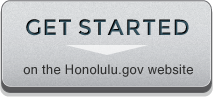
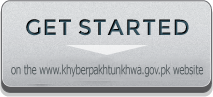
Seeds Recreated according to content Style Guide

Changed region(s): [[0.0282, 0.6495, 0.9577, 0.8041], [0.169, 0.866, 0.1972, 0.8969]]

diff --git a/db/seeds.rb b/db/seeds.rb
@@ -7,13 +7,13 @@ Category.create([
   { :name => "City jobs", :description => "Everything to do with city jobs" },
   { :name => "Driver License", :description => "Driving licenses, transport and registration concerns." },
   { :name => "Public Services", :description => "Information for people wanting to work for the city" },
-  { :name => "Parks & Beaches", :description => "Parks, beaches and other green spaces" },
+  { :name => "Parks & Hotels", :description => "Parks, hotels and other green spaces" },
   { :name => "Emergencies", :description => "What to do in an emergency" }
 ])
 
 # The order is important, as it determines the IDs.
 Contact.create([
-  { :name => "Example contact", :url => "http://honolulu.gov", :department => "Department of Administrative Affairs", :number => "(808) 768-3798" }
+  { :name => "Web Cell KpK", :url => "http://khyberpakhtunkhwa.gov.pk", :department => "Department of Administrative Affairs", :number => "(091) 9211789" }
 ])
 
 Department.create([
@@ -32,20 +32,51 @@ puts "  email: admin@example.com"
 puts "  password: adminn"
 
 Article.create([
-  { :title => "What is the selection process for a job at the City?", :contact_id => 1, :tags => "job selection, apply for job, city employment, city job, application", :service_url => "", :category_id => 1, :author_pic_file_name => nil, :author_pic_content_type => nil, :author_pic_file_size => nil, :author_pic_updated_at => nil, :author_name => "", :author_link => "", :type => "QuickAnswer", :content_main => "**Selection process for a City job:**\r\n\r\n1.  Apply for a job at [honolulu.gov/hr][1].\r\n2.  Submit any requested documentation listed on the job posting. For example: \r\n    *   Certificate of Release or Discharge from Military Service (Form DD214).\r\n    *   Copies of your college diploma and official transcripts with the embossed seal.\r\n    *   Copies of your professional licenses (e.g., Professional Engineering license).\r\n3.  Check your mail and email for any notices regarding your application.\r\n4.  If you meet the requirements, you may be asked to take written or other tests.\r\n5.  If you qualify, you may be invited for an interview.\r\n6.  Finally, you will need to clear some medical examinations.\r\n\r\n\r\n\r\n [1]: http://www.honolulu.gov/hr", :content_main_extra => "", :content_need_to_know => "All documentation, other than the application form, should be mailed or hand-delivered to:  \r\n\r\n> 650 South King Street, 10th Floor  \r\n> Honolulu, HI 96813\r\n\r\nYou can expect notices regarding your application 6-8 weeks after the end of the application period.", :published => true, :user_id => 1 },
-  { :title => "How long is the grace period for registration of an out-of-state vehicle?", :preview => "The grace period is 10 working days.", :contact_id => 1, :tags => "registration, time period, car, register, vehicle, out of state, leeway, buffer period, buffer time, tag, sticker, license plate sticker, plate tag, dmv", :service_url => "", :category_id => 2, :author_pic_file_name => nil, :author_pic_content_type => nil, :author_pic_file_size => nil, :author_pic_updated_at => nil, :author_name => "", :author_link => "", :type => "QuickAnswer",   :content_main => "## The grace period is 10 working days.\r\n\r\n", :content_main_extra => "", :content_need_to_know => "A working day is a day that the city offices are open.", :published => true, :user_id => 1 },
-  { :title => "Can I trim or remove my street tree?", :preview => "You aren’t allowed to trim, remove, or plant a street tree without approval from the City.", :contact_id => 1, :tags => "Trees, street trees, trim, prune, remove, relocate, replace, Planning and Permitting, Parks and Recreation, horticulture, Urban Forestry", :service_url => nil, :category_id => 3, :author_pic_file_name => nil, :author_pic_content_type => nil, :author_pic_file_size => nil, :author_pic_updated_at => nil, :author_name => "", :author_link => "", :type => "QuickAnswer",   :content_main => "**No. This is the responsibility of the City.**", :content_main_extra => "", :content_need_to_know => "**Don't touch that street tree**\r\n\r\n - Street trees are the property of the City. You cannot plant, remove, relocate, or replace a street tree without approval from the City.\r\n - Information about street trees is available at http://www1.honolulu.gov/parks/guidelinesfortreeinquiries072011.pdf.\r\n\r\n\r\n**Here’s what to do if you think your street tree needs a little trim:**\r\n\r\n - Call the Division of Urban Forestry at (808) 971-7151\r\n - Leave your name, address of the tree, and a daytime contact number. A job order will be created from your message\r\n - Street trees typically are pruned on a regular basis by private contractors hired by the City", :published => false, :pending_review => false, :user_id => 1 },
-  { :title => "Vacation Rentals", :preview => "", :contact_id => nil, :tags => "", :service_url => nil, :category_id => 3, :author_pic_file_name => nil, :author_pic_content_type => nil, :author_pic_file_size => nil, :author_pic_updated_at => nil, :author_name => "", :author_link => "", :type => "Guide",   :content_main => nil, :content_main_extra => nil, :content_need_to_know => nil, :pending_review => true, :user_id => 1 },
-  { :title => "How do I know if I live or work in an evacuation area?", :preview => "You can look it up online at OahuDEM.org.\r\n\r\n", :contact_id => 1, :tags => "tsunami, earthquake, eruption, evacuation, emergency, disaster, preparedness, shelter, refuge, flood, flooding, storm surge, sirens, inundation, waves, high waves, wave surges, zone ", :service_url => "http://www.OahuDEM.org", :category_id => 5, :author_pic_file_name => nil, :author_pic_content_type => nil, :author_pic_file_size => nil, :author_pic_updated_at => nil, :author_name => "", :author_link => "", :type => "WebService",   :content_main => "To see if you are in an evacuation area:\r\n\r\n1.  Click “Get Started” above\r\n2.  Scroll to the bottom of the page that opens to the “Evacuation Zone Map Viewer”\r\n3.  Type in your home or work address to “Search By Address,” or select an area in the “Search By Island Area” section\r\n\r\n", :content_main_extra => nil, :content_need_to_know => "During an evacuation warning:\r\n\r\n*   If you find your location is in an evacuation zone, immediately move to higher ground, out and away from the ocean shoreline as fast as you can.\r\n*   If you find your location is in an evacuation zone, and you are in or near a building that is 6 or more stories tall and made of concrete and steel, go to the 3rd floor or higher of the building.\r\n*   If you find your location to be outside of the evacuation zone, take shelter where you are, and do not get on the roads. Leave roads free for emergency vehicles and for people who are evacuating to higher ground.\r\n*   Stay at least 100 feet away from streams, canals, and marinas connected to the ocean because powerful waves and flooding are possible.\r\n\r\nLocal telephone books include a “Disaster Preparedness Guide” near the beginning.", :published => true, :user_id => 2 },
-  { :title => "Where can I view live video of the beaches at Waikiki?", :preview => "You can view live video of Waikiki's beaches online.", :contact_id => nil, :tags => "Hawaii beaches, Waikiki, Kuhio, Honolulu, tourist, tourism, scenery, camera, webcam, video, streaming", :service_url => "", :category_id => 5, :author_pic_file_name => "Joseph_Heaukulani.png", :author_pic_content_type => "image/png", :author_pic_file_size => 57147, :author_pic_updated_at => "2012-11-29 19:06:51", :author_name => "Joseph Heaukulani", :author_link => "", :type => "WebService",   :content_main => "You can view live video of [Kuhio Beach](http://www1.honolulu.gov/multimed/wme.asp) and [Waikiki Beach](http://www1.honolulu.gov/multimed/waikiki.asp) fronting the Duke Kahanamoku statue online", :content_main_extra => nil, :content_need_to_know => "", :published => true, :user_id => 1 },
-  { :title => "What is the registration fee for my trailer?", :preview => "Look up the registration fee for your trailer online.", :contact_id => 1, :tags => "trailer, register, fees, cost, amount, pay, how much, dmv", :service_url => "http://www3.honolulu.gov/mvrfeeinq/", :category_id => 2, :author_pic_file_name => nil, :author_pic_content_type => nil, :author_pic_file_size => nil, :author_pic_updated_at => nil, :author_name => "", :author_link => "", :type => "WebService",   :content_main => "", :content_main_extra => nil, :content_need_to_know => "You will need the license plate number and VIN for your trailer to look up the fee.", :published => true, :user_id => 1 },
-  { :title => "How do I apply for a job at the City?", :preview => "View available jobs and apply online.", :contact_id => 1, :tags => "city jobs, opportunity, job opportunities, human resources, HR, employment, open position, positions, openings", :service_url => "https://www.governmentjobs.com/js_login.cfm", :category_id => 1, :author_pic_file_name => nil, :author_pic_content_type => nil, :author_pic_file_size => nil, :author_pic_updated_at => nil, :author_name => "", :author_link => "", :type => "WebService",   :content_main => "# \n\n### What you need to know\n\nBefore you apply, view [current openings][1]. Then apply for a specific job opportunity.\n\n [1]: http://agency.governmentjobs.com/honolulu/default.cfm?action=jobs", :content_main_extra => nil, :content_need_to_know => nil, :published => true, :user_id => 1 },
-  { :title => "How do I get a personalized license plate?", :preview => "Apply for a personalized license plate online.", :contact_id => 1, :tags => "motor vehicle, car, auto, truck, motorcycle, custom, personalized, vanity plate, special plate, name plates, dmv", :service_url => "http://www4.honolulu.gov/specialplates/", :category_id => 2, :author_pic_file_name => nil, :author_pic_content_type => nil, :author_pic_file_size => nil, :author_pic_updated_at => nil, :author_name => "", :author_link => "", :type => "WebService",   :content_main => "", :content_main_extra => nil, :content_need_to_know => "To apply for personalized license plates online, you'll need an email address and a Visa or Mastercard.\r\n\r\nYou can apply for a personalized plate for yourself (or for someone else) if the vehicle is registered in the City & County of Honolulu.\r\n\r\nWhen applying for personalized license plates, there is a non-refundable fee of $25.\r\n\r\nIn the future, each time the vehicle registration is renewed, an additional $25 fee will be added to your registration fee.\r\n\r\nPlease allow 60 to 90 days for receipt of your personalized plate.\r\n\r\nIf you don't want to apply online, you can submit your application by mail to:\r\n\r\n> Division of Motor Vehicle, Licensing and Permits  \r\n> Cashiering Section  \r\n> P.O. Box 30330  \r\n> Honolulu, HI 96820-0330  \r\n\r\n\r\nOr submit your application in person at any [Satellite City Hall][1].\r\n\r\n [1]: http://answers.honolulu.gov/articles/where-do-i-go-to-register-a-motor-vehicle", :published => true, :user_id => 1 },
-  { :title => "How do I transfer ownership of my vehicle or motorcycle?", :preview => "To transfer ownership of a vehicle or motorcycle, both the buyer and the seller need to fill out portions of the vehicle's Certificate of Title.", :contact_id => 1, :tags => "motor vehicle, car, auto, truck, motorcycle, change owner, transfer title, transfer registration, dmv", :service_url => "", :category_id => 2, :author_pic_file_name => nil, :author_pic_content_type => nil, :author_pic_file_size => nil, :author_pic_updated_at => nil, :author_name => "", :author_link => "", :type => "QuickAnswer",   :content_main => "## If the vehicle or motorcycle is titled in Honolulu, make the following changes on your Certificate of Title.\r\n\r\n**If you are the seller**:   \r\n\r\n + Complete and submit Notice of Transfer\r\n + Record the odometer reading in the Certificate of Title Section A  \r\n + Have each registered owner sign and date Section A  \r\n + Have the lienholder (if any) sign and date Section B  \r\n + Give the Certificate of Title to the new owner  \r\n\r\n**If you are the new owner**:   \r\n\r\n + Print name, sign and date Section D in the Certificate of Title  \r\n + Have the new lienholder (if any) sign and date Section E  \r\n + Submit the Certificate of Title by mail or in person at any [Satellite City Hall][1]\r\n    \r\n\r\n [1]: ../../../quick_answers/where-are-the-satellite-city-halls-located  ", :content_main_extra => "", :content_need_to_know => "Seller must complete the Certificate of Title within 10 days of transferring the vehicle.\r\n\r\nNew owner must submit the Certificate of Title along with last issued Certificate of Registration and current Hawaii Vehicle Inspection Certificate.\r\n\r\nNew owners who are non-resident active duty military service members must also submit a Non-Resident Certificate (Form CS-L MVR 50).\r\n\r\nNew owner must submit registration materials in person at any [Satellite City Hall][1].\r\n\r\nOr submit by mail to:\r\n\r\n> Division of Motor Vehicle, Licensing, and Permits  \r\n> Registration Section  \r\n> P.O. Box 30330  \r\n> Honolulu, HI 96820-0330  \r\n\r\n [1]: ../../../quick_answers/where-are-the-satellite-city-halls-located", :published => true, :user_id => 1 },
-  { :title => "How do I register a new trailer?", :preview => "Register your trailer by mail or in person at a Satellite City Hall.", :contact_id => 1, :tags => "trailer, registration, dmv", :service_url => "", :category_id => 2, :author_pic_file_name => nil, :author_pic_content_type => nil, :author_pic_file_size => nil, :author_pic_updated_at => nil, :author_name => "", :author_link => "", :type => "QuickAnswer",   :content_main => "**If you purchased the trailer on Oahu**:\r\n\r\n*   Fill out the Application for Registration of Trailer (Form CS-L MVR 14)\r\n*   Have the selling dealer sign the back of the form\r\n*   If the vehicle weighs less than 10,000 pounds, obtain a Hawaii Vehicle Inspection Certificate\r\n*   If the vehicle weighs more than 10,000 pounds, obtain a State Department of Transportation Inspection Certificate\r\n*   Look up your [registration fee online][1]\r\n*   Submit the forms and payment in person to any [Satellite City Hall][2]\r\n\r\n\r\n\r\n [1]: http://www3.honolulu.gov/mvrfeeinq/\r\n [2]: ../../../quick_answers/where-are-the-satellite-city-halls-located", :content_main_extra => "", :content_need_to_know => "To register trailers from outside the county or outside the state, or if your trailer is homemade or shop-built, you will need different forms. Contact a [Satellite City Hall][1] for more information.\r\n \r\n\r\n[1]: ../../../quick_answers/where-are-the-satellite-city-halls-located\r\n  \r\n\r\n", :published => true, :user_id => 1 },
-  { :title => "What is the registration fee for my motor vehicle?", :preview => "Look up the registration fee for your car, truck, or motorcycle online.", :contact_id => 1, :tags => "car, auto, truck, motorcycle, cost, register, fees, payment, pay, dmv, amount, how much", :service_url => "http://www3.honolulu.gov/mvrfeeinq/", :category_id => 2, :author_pic_file_name => nil, :author_pic_content_type => nil, :author_pic_file_size => nil, :author_pic_updated_at => nil, :author_name => "", :author_link => "", :type => "WebService",   :content_main => "", :content_main_extra => nil, :content_need_to_know => "You will need the license plate number and VIN for your car, truck, or motorcycle to look up the fee.", :published => true, :user_id => 1 },
+
+
+  { :title => "Where can I get free wifi in Peshawar?", :preview => "You can get free wifi in Peshawar at Deans Trade Center.", :contact_id => 1, :tags => "free wifi, free internet, deans trade center, kp it board", :service_url => nil, :category_id => 3, :author_pic_file_name => nil, :author_pic_content_type => nil, :author_pic_file_size => nil, :author_pic_updated_at => nil, :author_name => "", :author_link => "", :type => "QuickAnswer",   :content_main => "**Location**/r/n/r Free Wifi available at Deans Trade Center Islamia Road Peshawar Center", :content_main_extra => "", :content_need_to_know => "", :published => true, :pending_review => false, :user_id => 1 },
+  { :title => "How to get Police clearance certificate?", :preview => "You can get police clearance certificate from the district katchery (Notary Public).", :contact_id => 1, :tags => "Certificate, Police Clearance, Clearance Certificate", :service_url => nil, :category_id => 3, :author_pic_file_name => nil, :author_pic_content_type => nil, :author_pic_file_size => nil, :author_pic_updated_at => nil, :author_name => "", :author_link => "", :type => "QuickAnswer",   :content_main => "\r\n\r\n*Prepare the stamp paper (Rs 30 or more) in the District Katchery\r\n*Submit the stamp paper along with copies of National Identity Card, Passport and 2 passport size recent pictures in your District Police Office\r\n*The case is forwarded to DSP (Deputy Superintendent Police) and concerned Police station to verify the criminal record and character of the applicant\r\n*The case is returned with the comments back to the district office\r\n*If there is nothing opposing against the applicant then Police Clearance Form (in duplicate) of the applicant is prepared after obtaining their thumbs impression and affixing photograph\r\n*One copy of the Form is retained in the Police office for record and the other is issued to the applicant", :content_main_extra => "", :content_need_to_know => "**Don't touch that street tree**\r\n\r\n - Street trees are the property of the City. You cannot plant, remove, relocate, or replace a street tree without approval from the City.\r\n - Information about street trees is available at http://www1.honolulu.gov/parks/guidelinesfortreeinquiries072011.pdf.\r\n\r\n\r\n**Here’s what to do if you think your street tree needs a little trim:**\r\n\r\n - Call the Division of Urban Forestry at (808) 971-7151\r\n - Leave your name, address of the tree, and a daytime contact number. A job order will be created from your message\r\n - Street trees typically are pruned on a regular basis by private contractors hired by the City", :published => false, :pending_review => false, :user_id => 1 },
+  { :title => "How do I apply for a job at the City?", :preview => "View available jobs and apply online.", :contact_id => 1, :tags => "city jobs, opportunity, job opportunities, human resources, HR, employment, open position, positions, openings", :service_url => "http://www.khyberpakhtunkhwa.gov.pk/", :category_id => 1, :author_pic_file_name => nil, :author_pic_content_type => nil, :author_pic_file_size => nil, :author_pic_updated_at => nil, :author_name => "", :author_link => "", :type => "WebService",   :content_main => "# \n\n### What you need to know\n\nBefore you apply, view [current openings][1]. Then apply for a specific job opportunity.\n\n [1]: http://www.khyberpakhtunkhwa.gov.pk/Jobs_pages.php", :content_main_extra => nil, :content_need_to_know => nil, :published => true, :user_id => 1 },
+  { :title => "How do I register my new vehicle?", :preview => "Apply for a personalized license plate .", :contact_id => 1, :tags => "motor vehicle, car, auto, truck, motorcycle, custom, personalized, vanity plate, special plate, name plates, dmv, registration, new vehicle", :service_url => "", :category_id => 2, :author_pic_file_name => nil, :author_pic_content_type => nil, :author_pic_file_size => nil, :author_pic_updated_at => nil, :author_name => "", :author_link => "", :type => "WebService",   :content_main => "", :content_main_extra => nil, :content_need_to_know => "**PROCEDURE FOR REGISTRATION OF NEW VEHICLE** \r\n > STEP 1 \r\n	> > All necessary forms regarding new vehicle registration can be downloaded from concern website or can be obtained from information counter situated within the premises of Excise Department, Islamabad. \r\n > STEP 2 \r\n >Following documents shall be required from the applicant: \r\n > >Photocopy of CNIC of the applicant. \r\n > > > •	Application to the Excise & Taxation Officer for new vehicle registration. \r\n > > > •	Proof of purchase, which can be either of the following: \r\n > > > •	In case of locally manufactured vehicle, Sale Invoice and Sale Certificate will be required. \r\n > > > •	In case of imported vehicle, Bill of Entry, Bill of Lading and old registration book will be required. \r\n > > > •	In case of auctioned vehicle, auction voucher shall be required. \r\n > > •	Proof of residence, which can be either of the following: \r\n > > > •	Utility Bills (i.e., electricity, sui-gas, telephone etc.), CNIC, Lease Agreement, Registry, Allotment letter or office card/appointment letter (in case of Government servant) shall be acceptable as residential proof in Islamabad \r\n > > > •	In case of non-resident of Islamabad who resides with some other person, the residential proof and affidavit shall be acceptable from that other person. The person who submits the affidavit shall also be present long with original CNIC and contact number \r\n > STEP 3 \r\n 	> Documents will be presented for verification to the inspector. \r\n > STEP 4 \r\n 	> Inspectors shall assist to fill up the fee challan. Fee can be calculated with the help of information desk or website. \r\n > STEP 5 \r\n 	> After verification of documents, computerized form “F” can be obtained from the Key Punch Operator (KPO).  \r\n > STEP 6 \r\n 	> Fee can be deposited in the designated and authorized branches of the National Bank of Pakistan (F-8 Markaz, F-10 Markaz, Blue Area and Melody Market) or the State Bank of Pakistan. \r\n  > STEP 7 \r\n 	> After completion of all documentation and fee submission, vehicle shall be produced before Inspector for physical inspection. \r\n > STEP 8 \r\n 	> After completion of all formalities, documents will be submitted to the KPO on the relevant counter. \r\n > STEP 9 \r\n 	> Registration book, number plates and courier service fee shall be deposited to Key Punch Operator (KPO). \r\n > STEP 10 \r\n 	> Registration receipt and number plates shall be received from relevant KPO. \r\n > STEP 11 \r\n 	> Same address shall be mentioned on all other documents including affidavit. The original documents would be dispatched through courier service at the given/provided address.  \r\n > Relevant fee shall be estimated through following formula: \r\n > > •	Registration fee + Advance Tax + Token Tax + Income Tax + Professional Tax. \r\n > > •	Late fee shall be implemented after 60 days delay in registration (starting from invoice date). \r\n > > •	In case of special number allocation, special number fee shall be deposited. The schedule of the special number fee is available here or can be obtained from information counter. \r\n > > •	The rates of Income Tax and Token Tax (mentioned in schedule) shall be applicable for whole year starting from 1st July and ending to 30th June. Although applicant shall pay Income tax and Token tax for the rest of the months according to the registration date", :published => true, :user_id => 1 },
+  { :title => "What is the Token Tex of vehicle or motorcycle?", :preview => "Token Tax fee fot hte vehicle or motorcycle. ", :contact_id => 1, :tags => "motor vehicle, car, auto, truck, motorcycle, token tax, tax, fee", :service_url => "", :category_id => 2, :author_pic_file_name => nil, :author_pic_content_type => nil, :author_pic_file_size => nil, :author_pic_updated_at => nil, :author_name => "", :author_link => "", :type => "QuickAnswer",   :content_main => "**Motor Vehicle Token Tax fee is payable annually at the following rates:**\r\n
+> •	Motor cycle and Scooter  will pay tax of Rs.1000 for life time \r\n
+> •	Truck/ Trailers/ Delivery Vans used for transport or haulage of goods or materials\r\n
+> > > •	Vehicles not exceeding 1250 Kg in unloaded weight will pay Rs.500 annually\r\n
+> > > •	Vehicles with maximum laden capacity up to 2030 Kg will pay Rs.800 annually\r\n
+> > > •	Vehicles with maximum laden capacity exceeding 2030 Kg. but not exceeding 4060 Kg will pay Rs.820 annually\r\n
+> > > •	Vehicles with maximum laden capacity exceeding 4060 Kg. but not exceeding 6090 Kg will pay Rs.1200 annually\r\n
+> > > •	Vehicles with maximum laden capacity exceeding 6090 Kg. but not exceeding 8120 Kg will pay Rs.2000 annually\r\n
+> > > •	Vehicles with maximum laden capacity exceeding 8120 Kg. but not exceeding 12000 Kg will pay Rs.4000 annually\r\n
+> > > •	Vehicles with long trailers or other vehicles with maximum laden capacity exceeding 12000 Kg. but not exceeding 16000 Kg will pay Rs.6000 annually\r\n
+> > > •	Vehicles with long trailers or other vehicles with maximum laden capacity exceeding 16000 Kg will pay Rs.8000 annually\r\n
+> •	Vehicles plying for hire and ordinarily used for the transport of passengers:\r\n
+> > > •	Mechanically propelled tricycle / rickshaw with seating capacity of not more than three persons will pay Rs.400 annually.\r\n
+> > > •	Vehicles with seating capacity of not more than 4 persons will pay Rs.400 annually.\r\n
+> > > •	Vehicles with seating capacity of More than 4, but not more than 6 persons will pay Rs.650 annually\r\n
+> > > •	Vehicles with seating capacity of More than 6 persons, plying on A routes will pay Rs.180 per seat annually\r\n
+> > > •	Motor Vehicles with seating capacity of more than 6 but not more than 20 persons, plying exclusively within the limits of corporation / Municipality or Cantonment will pay Rs.160.00 per seat\r\n
+> > > •	Motor vehicles with seating capacity of more than 6 nut not more than 20 persons plying exclusively within the limits of Corporation, Municipality or Cantonment or partly within and partly outside such limits with sixty percent of the total length of the route falling within the limits of a Corporation , Municipality or Cantonment will pay Rs.100 per seat.\r\n
+  ", :content_main_extra => "", :content_need_to_know => "", :published => true, :user_id => 1 },
+  { :title => "How do I get driver license for the first time?", :preview => "To get the driving license for the first time you must have a learner. If you have a learner and can pass the driving test then you are eligible for license. ", :contact_id => 1, :tags => "driving, licinse, apply", :service_url => "", :category_id => 2, :author_pic_file_name => nil, :author_pic_content_type => nil, :author_pic_file_size => nil, :author_pic_updated_at => nil, :author_name => "", :author_link => "", :type => "QuickAnswer",   :content_main => "Before you are applying for driving license, you must have a learner for 42 days and requirements for learner are as under: \r\n > •	Copy of National Identity Card \r\n > •	Medical Fitness Form \r\n > •	Fee Slip of Rs 125 or 250 \r\n > You may need to know \r\n
+	> AGE LIMITS \r\n
+> > •	Motor Cycle 18 years \r\n
+> > •	LTV (Hiace, Datsun, and Motor Car) 21 years \r\n
+> > •	HTV (Truck, Bus etc...) 22 years \r\n
+> > •	Original learner permit of at least 6 weeks \r\n
+> > •	Medical Certificate \r\n
+> > •	3 passport size fresh photos  (Attested)  \r\n
+> > •	An attested copy of National Identity Card \r\n ", :content_main_extra => "", :content_need_to_know => "", :published => true, :user_id => 1 },
+  { :title => "What is the registration fee for my motor vehicle?", :preview => "Look up the registration fee for your car, truck, or motorcycle.", :contact_id => 1, :tags => "car, auto, truck, motorcycle, cost, register, fees, payment, pay, dmv, amount, how much", :service_url => "http://www.kpexcise.gov.pk/taxes/mvregfee", :category_id => 2, :author_pic_file_name => nil, :author_pic_content_type => nil, :author_pic_file_size => nil, :author_pic_updated_at => nil, :author_name => "", :author_link => "", :type => "WebService",   :content_main => "**Motor Vehicle Registration fee is payable at the time of Registration of a new vehicle at the following rates:**\r\n
+> > •	Motor Cycle and Scooters owner will pay 1% of the value of the vehicle amount.\r\n
+> > •	M/Cars, Jeeps, Vans, Double Cabin and Single Cabin Pickups, etc. up to 1300 cc Engine Power owner will pay 1% of the value of the vehicle amount.\r\n
+> > •	M/Cars, Jeeps, Vans, Double Cabin and Single Cabin Pickups, etc. from 1300 cc to 2500 Engine Power owner will pay 2% of the value of the vehicle amount.\r\n
+> > •	M/Cars, Jeeps, Vans, Double Cabin and Single Cabin Pickups, etc. of above 2500 cc owner will pay 4% of the value of the vehicle amount.\r\n
+> > •	Trucks and Busses and commercially used Vans, Single Cabin Pickups, Motor Cab Rickshaws and Motor Propelled Tricycles, etc. owner will pay 1% of the vehicle amount.\r\n
+> > •	Tractors owner will pay Rs.1000/-\r\n", :content_main_extra => nil, :content_need_to_know => "", :published => true, :user_id => 1 },
   { :title => "What is the hiring process for a job at the City?", :preview => "Fill out an online application form, provide supporting documents if needed, interview, and clear background checks.", :contact_id => 1, :tags => "selection process employment HR", :service_url => nil, :category_id => 1, :author_pic_file_name => nil, :author_pic_content_type => nil, :author_pic_file_size => nil, :author_pic_updated_at => nil, :author_name => "", :author_link => "", :type => "Guide",   :content_main => nil, :content_main_extra => nil, :content_need_to_know => nil, :published => true, :user_id => 1 },
-  { :title => "How do I renew the registration for my trailer?", :preview => "Renew your trailer registration online.", :contact_id => 1, :tags => "trailer, extend, register, dmv", :service_url => "http://www4.honolulu.gov/mvrreg/", :category_id => 2, :author_pic_file_name => nil, :author_pic_content_type => nil, :author_pic_file_size => nil, :author_pic_updated_at => nil, :author_name => "", :author_link => "", :type => "WebService",   :content_main => "", :content_main_extra => nil, :content_need_to_know => "To renew online, you'll need your license plate number, the VIN number for your trailer, and a Visa or Mastercard.\r\n\r\nYou can renew online if your current registration has not expired, your address is correct, and no additional documents are required.\r\n\r\nIf you don't meet these requirements, you can renew by mail or in person. [Learn more][1].\r\n\r\n [1]: http://www1.honolulu.gov/csd/vehicle/mvinformation.htm", :published => true, :user_id => 1 },
+
+  { :title => "What are contact numbers of emergency services?", :contact_id => 5, :tags => "Emergency Services", :service_url => "", :category_id => 5, :author_pic_file_name => nil, :author_pic_content_type => nil, :author_pic_file_size => nil, :author_pic_updated_at => nil, :author_name => "", :author_link => "", :type => "QuickAnswer", :preview => "Following are the emergency contact numbers of the city",:content_main => "**Emergency Contects:**\r\n\r\n * Rescue 1122 center Hayyatabad Phone: (091) 5824424, (091)  5825375, 1122\r\n * Edhi Markaz Peshawar  Phone: (091) 2214575, (091) 2218251-2\r\n    *   Bomb Disposal Phone: (091) 9212111\r\n    *   Fire Brigade Phone: 16\r\n    *   Electricity Complaint Phone: 118\r\n * Gas Complaints Phone: 119\r\n * Municipal Corporation Phone: (091) 9212305\r\n\r\n\r\n\r\n\r\n\r\n ", :content_main_extra => "", :content_need_to_know => "", :published => true, :user_id => 1 },
+
 ])
 
 GuideStep.create([

diff --git a/app/controllers/home_controller.rb b/app/controllers/home_controller.rb
@@ -7,6 +7,31 @@ class HomeController < ApplicationController
   def index
     @popular_categories = Category.by_access_count.limit(3)
 
+    scheduler = Rufus::Scheduler.new
+
+    scheduler.every '10s' do
+
+      sender = "8333"
+      receiver = "03328919976"
+      message = "Kp Rehnuma--Comming Soon"
+      smile_manager =  Smile_Api.new
+      smile_response =  smile_manager.receive_sms()
+
+      response_status=JSON.parse(smile_response)
+
+      if(response_status['status'].blank? )
+        #puts "no messages"
+      else
+
+        my_message = response_status['status']
+        receiver = my_message[0]["sender_num"]
+        receiver["+92"] = "0"
+        sent_response = smile_manager.send_sms(receiver,sender,message)
+
+      end
+    end
+
+
   end
 
   def about
